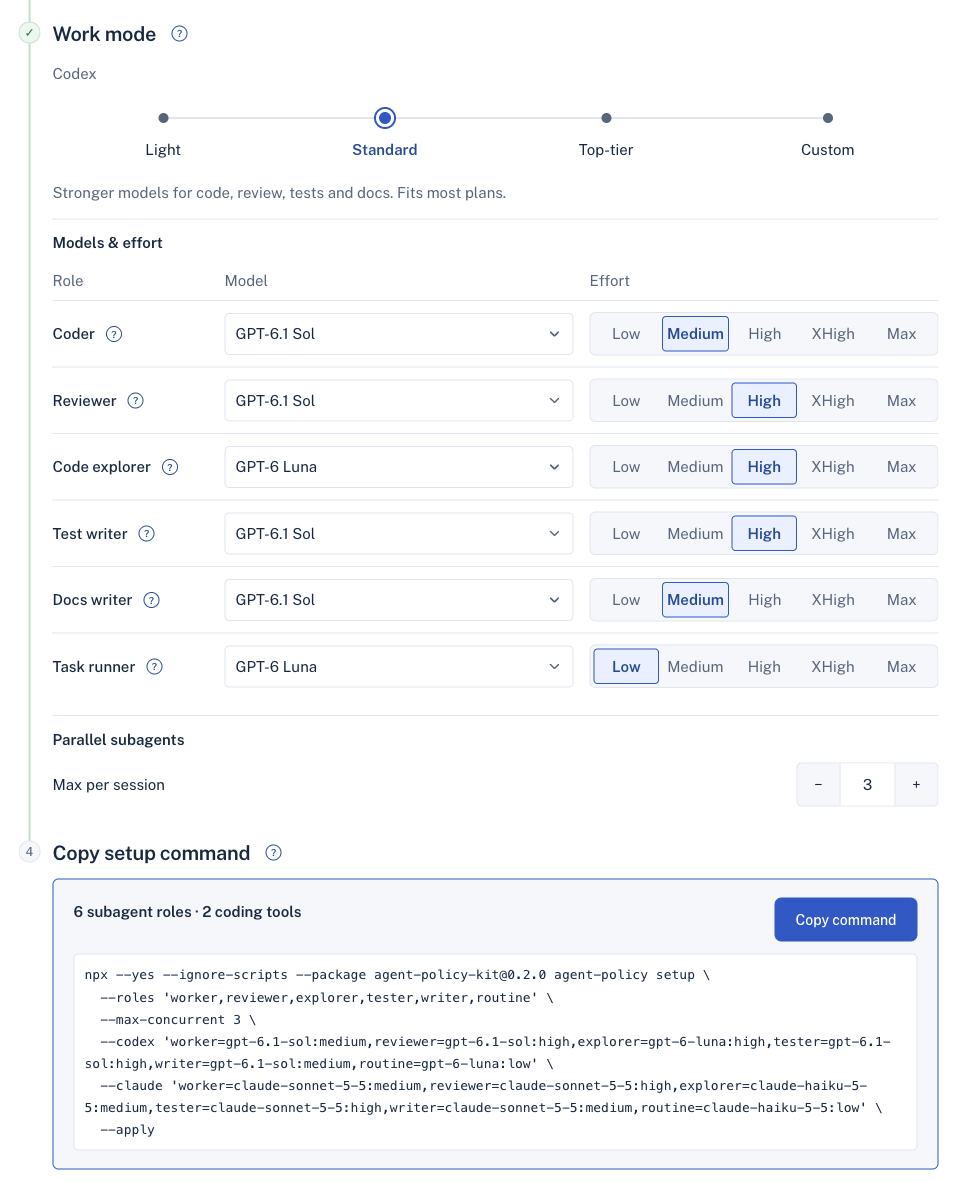
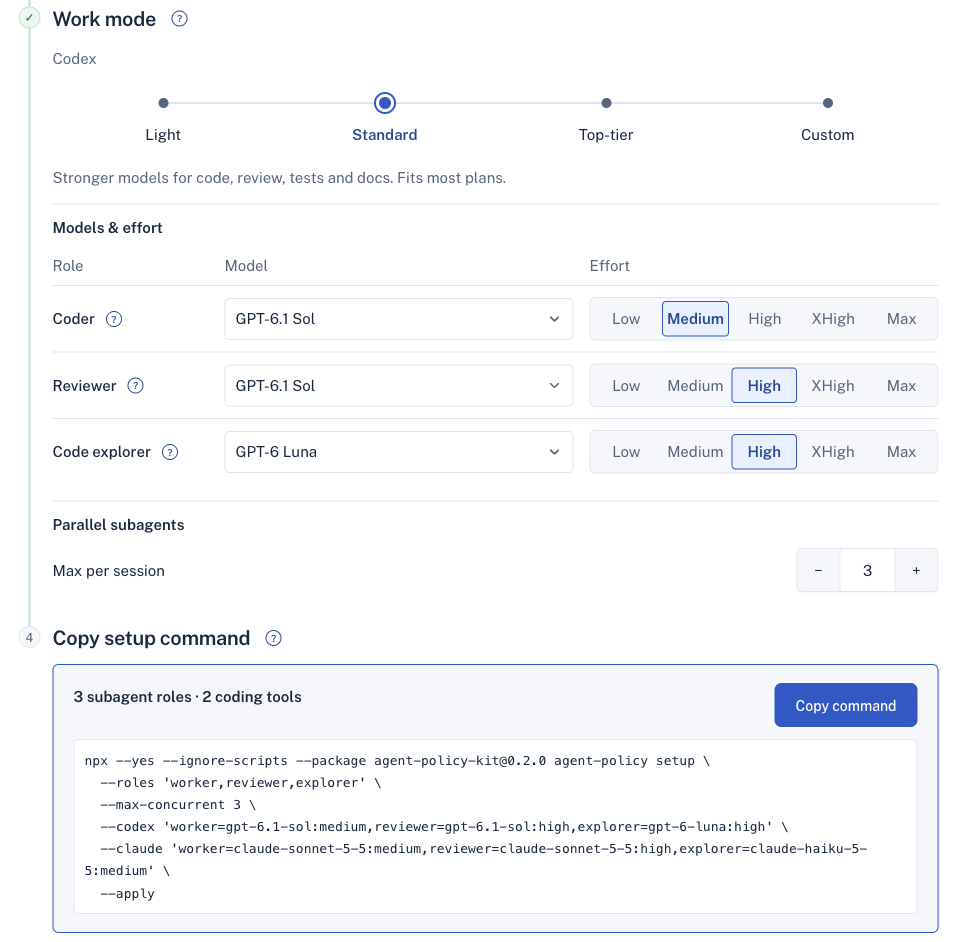
docs: trim README notes and use a three-role configurator screenshot

diff --git a/README.md b/README.md
@@ -15,25 +15,13 @@ Created and maintained by [Mykola Maksymenko](https://www.linkedin.com/in/nick-m
 
 ![Configurator: models and effort for each subagent role, and the setup command](docs/assets/configurator.png)
 
-No configurator needed for the defaults:
-
-```sh
-npx --yes --ignore-scripts --package agent-policy-kit@0.2.0 \
-  agent-policy setup --release --preset balanced          # preview
-npx --yes --ignore-scripts --package agent-policy-kit@0.2.0 \
-  agent-policy setup --release --preset balanced --apply  # apply
-```
-
 ## Good to know
 
 - Your main agent and its model stay unchanged. It still decides when to delegate.
 - No proxy and no background process. Delete the npm package after setup.
-- `agent-policy show` reads your current settings. `agent-policy uninstall --apply` removes APK's settings and keeps yours.
-- Claude Fable may use additional usage credits on plans that do not include it.
+- `npx --yes --ignore-scripts --package agent-policy-kit@0.2.0 agent-policy show` reads your current settings. Use `uninstall --apply` instead of `show` to remove APK's settings and keep yours.
 
 [Model catalog](docs/model-catalog.md) · [Release notes](CHANGELOG.md) · [AI operator guide](AGENT_INSTALL.md) · [Support](docs/compatibility.md) · [Privacy](docs/privacy.md)
-
-Node.js 22.13+ or 24+ · macOS/Linux · MIT
 
 ## Related projects
 
